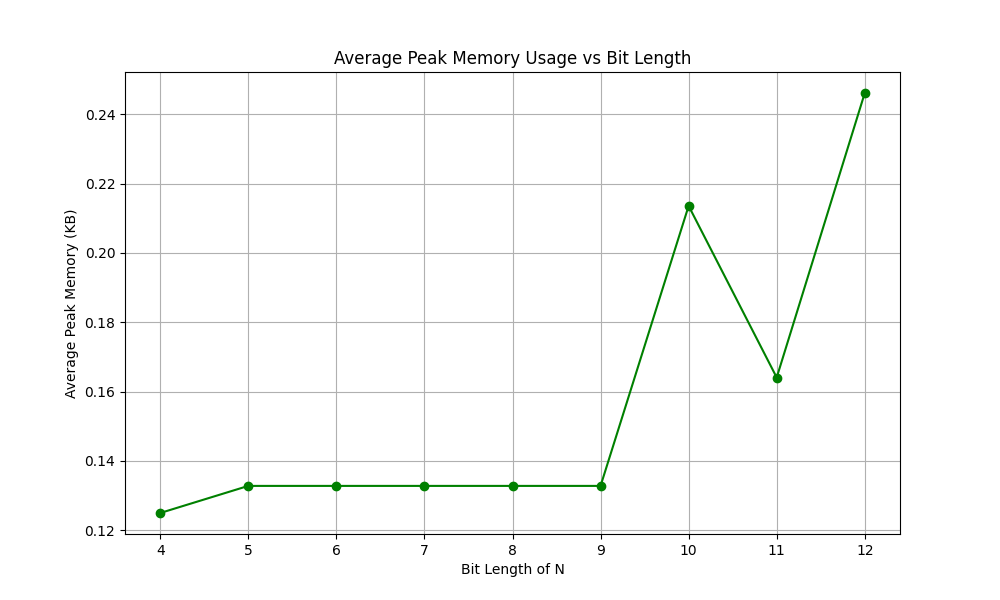
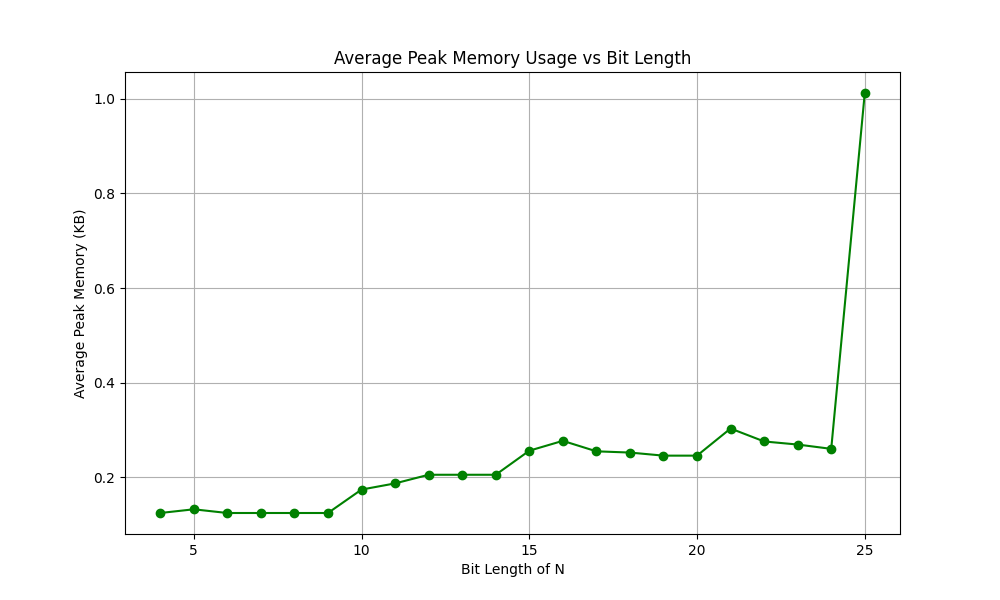
increased max bit length and got plots

diff --git a/main.py b/main.py
@@ -3,7 +3,7 @@ from plotter import plot_runtime, plot_memory, plot_success_rate
 from shor import shor_classical_simulation
 
 def main():
-    results = benchmark_shor(min_bits=4, max_bits=12, trials_per_bit=3)
+    results = benchmark_shor(min_bits=4, max_bits=25, trials_per_bit=3)
 
     plot_runtime(results)
     plot_memory(results)
